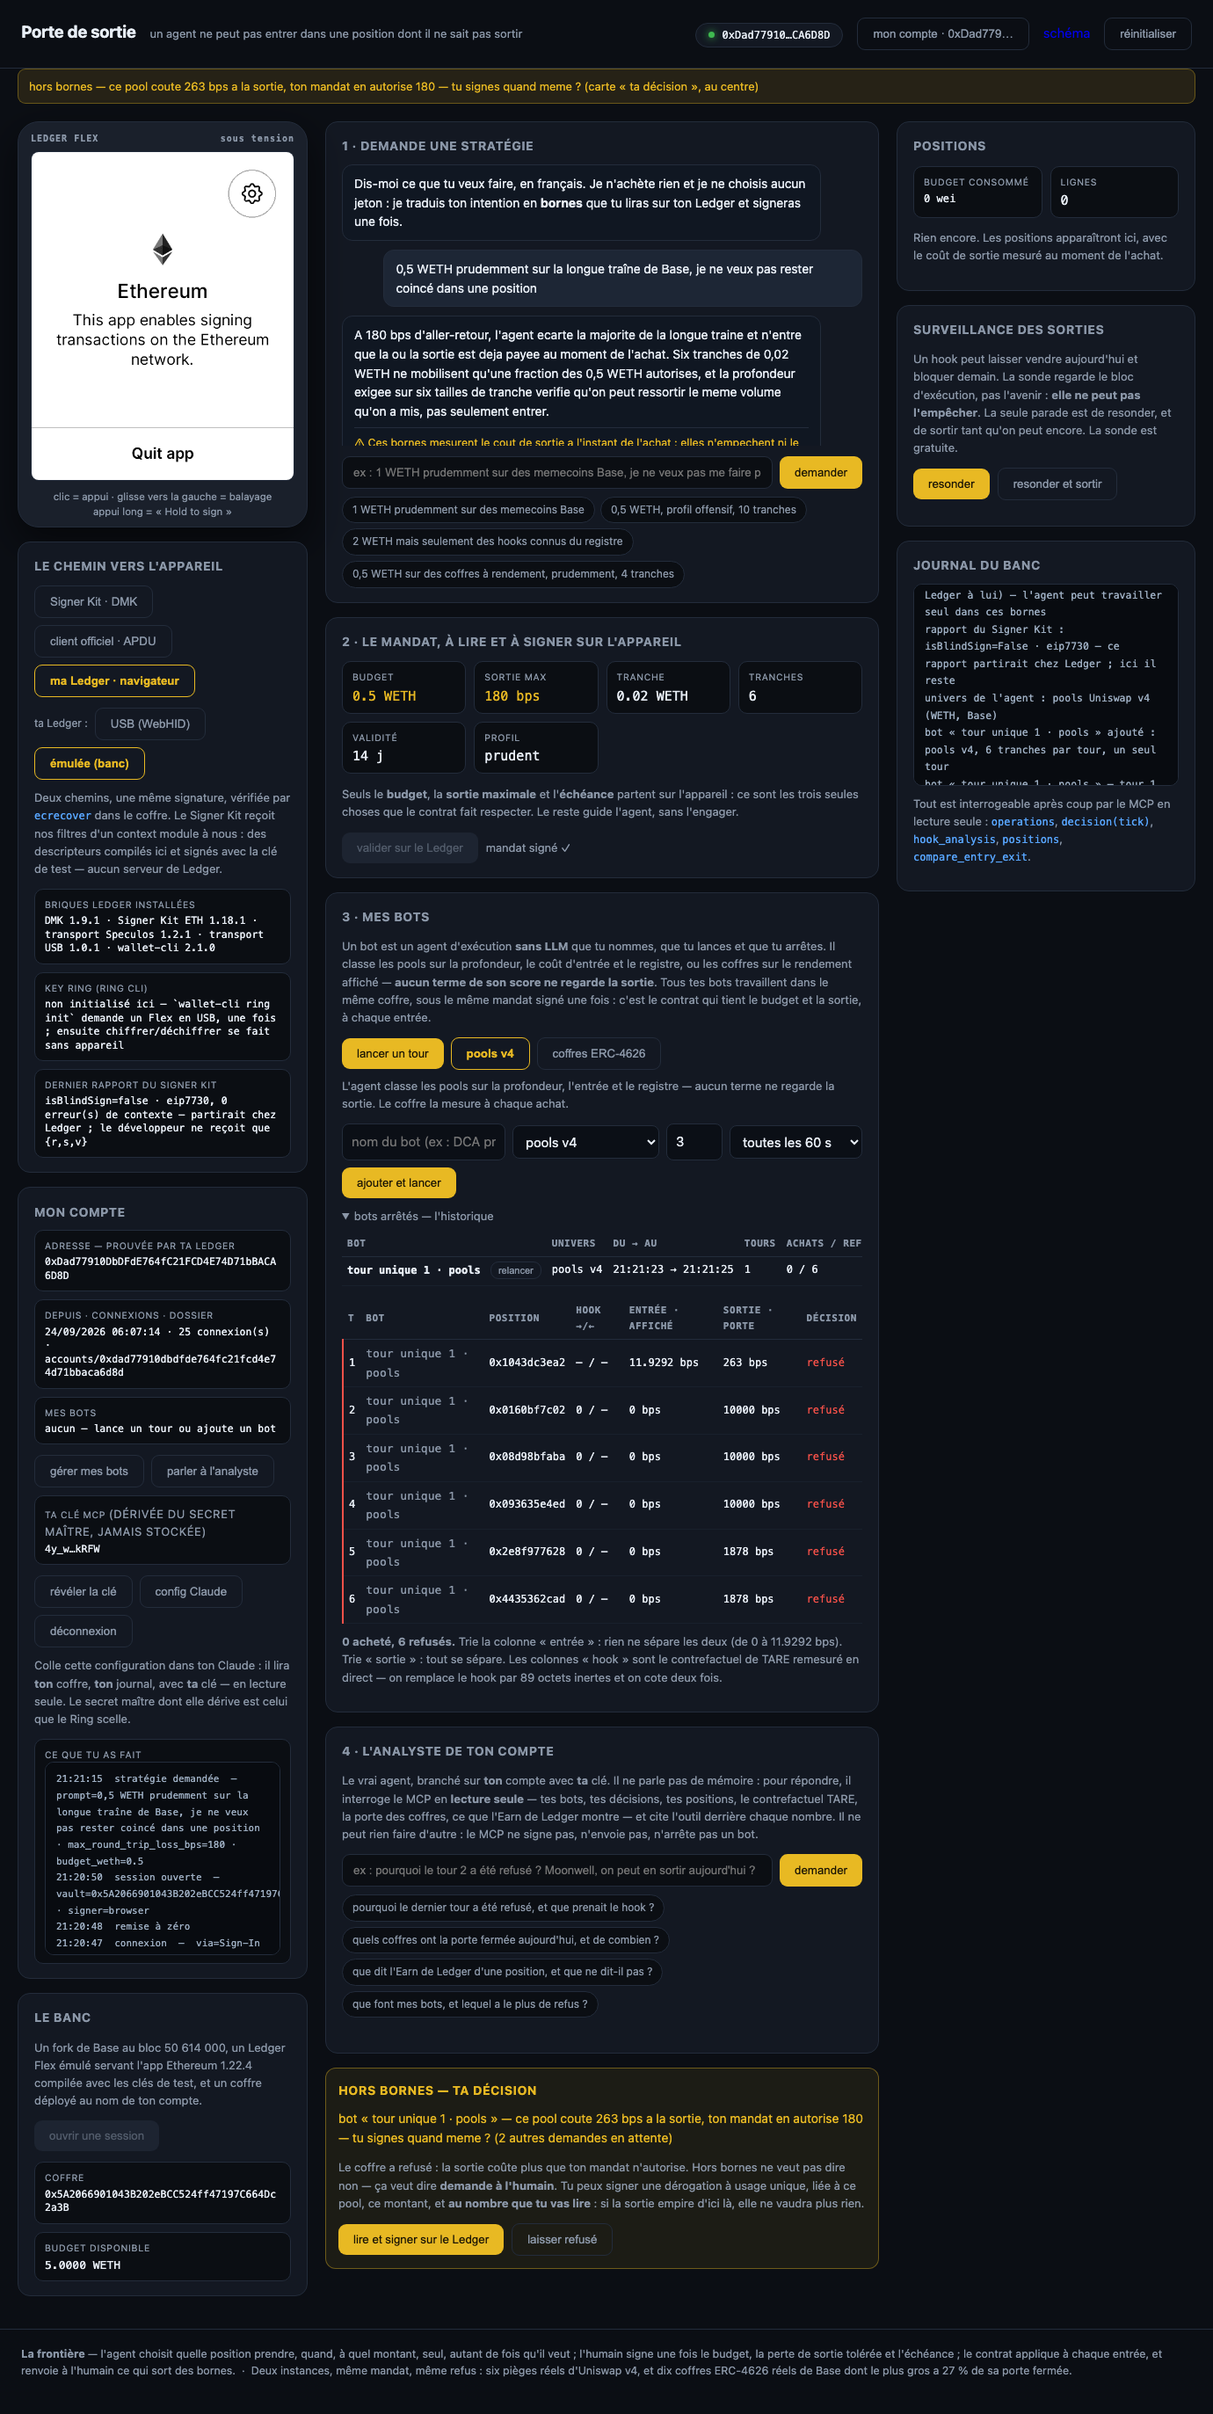
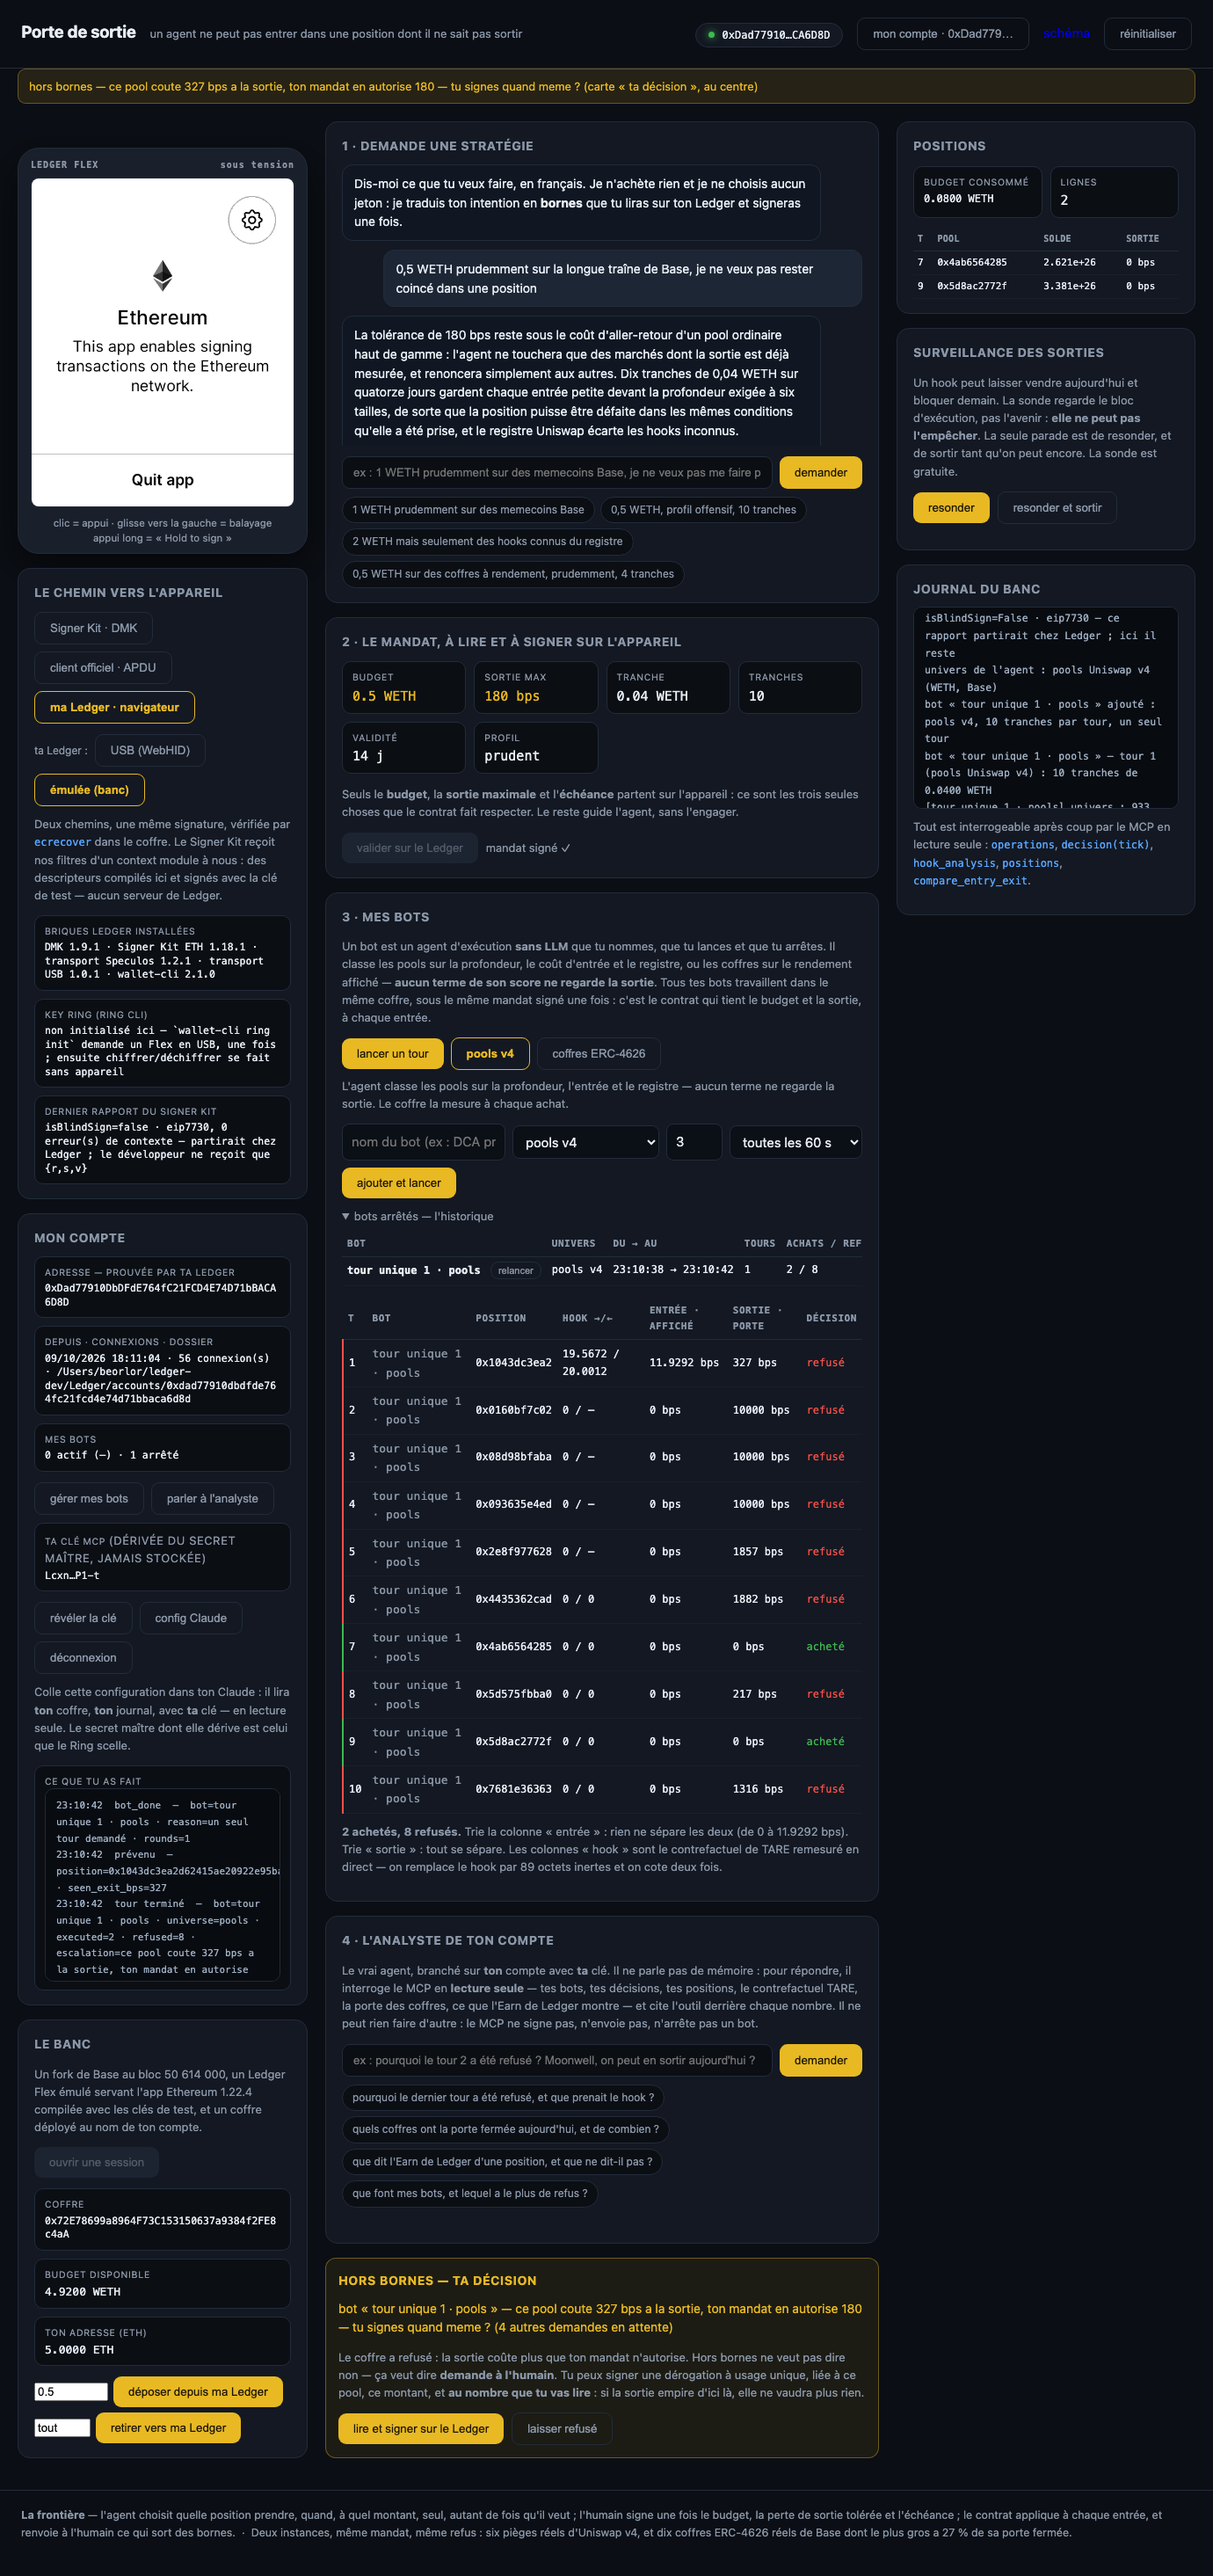
Campagne finale du 12 octobre, tout vert : usage, appareil, page du banc, fonds, Foundry ; le tiroir replie dit mandate signed et clear-signed

diff --git a/front/src/components/demo/Stage.tsx b/front/src/components/demo/Stage.tsx
@@ -113,7 +113,7 @@ export function Stage({ mode }: { mode: StageMode }) {
 
 /** One line per phase, folded: what it has to say about itself. */
 function summary(act: Act, s: BenchState): string {
-  if (act === 'setup') return s.signed ? `mandate ${s.mandate ? Number(s.mandate.mandate.budgetAmount) / 1e18 : s.proposal?.budget_weth} WETH · ${s.mandate?.mandate.maxRoundTripLossBps ?? s.proposal?.max_round_trip_loss_bps} bps` : s.proposal ? 'bounds proposed, to sign' : s.vault ? 'vault open' : 'no vault yet'
+  if (act === 'setup') return s.signed ? `mandate signed · ${s.mandate ? Number(s.mandate.mandate.budgetAmount) / 1e18 : s.proposal?.budget_weth} WETH · ${s.mandate?.mandate.maxRoundTripLossBps ?? s.proposal?.max_round_trip_loss_bps} bps${s.last_report && s.last_report.isBlindSign === false ? ' · clear-signed' : ''}` : s.proposal ? 'bounds proposed, to sign' : s.vault ? 'vault open' : 'no vault yet'
   if (act === 'agents') { const live = s.bots.filter((b) => b.status === 'running').length; const bought = s.journal.filter((r) => r.decision === 'EXECUTED').length; return s.bots.length ? `${s.bots.length} bot${s.bots.length > 1 ? 's' : ''} · ${bought} in · ${s.journal.length - bought} refused${live ? ' · running' : ''}` : 'no agent yet' }
   if (act === 'request') { const w = (s.escalation?.possible ? 1 : 0) + s.escalation_queue.length; return w ? `${w} waiting on the Flex` : `${s.exception_buys.length} signed · ${s.refused_escalations.length} left refused` }
   return `${s.positions.length} positions${s.watch ? ' · probed' : ''}${s.analyses.length ? ' · analyst answered' : ''}`

diff --git a/front/APP.md b/front/APP.md
@@ -94,7 +94,11 @@ accepted reset. It prints its usability remarks at the end (240 s on 11 October,
 node scripts/tests-usage.mjs
 ```
 
-Last run (12 October, on the pages above, with Florent's branch merged), every step passed: sign-in, deposit of 0.5 ETH
+Final campaign of 12 October, late evening, on a quiet host, all green: the usability pass (`tests-usage.mjs`, 39 checks, 323 s),
+the device tests (refusal on the device, two tabs, bench restart), the bench page's own journey (112 s), the funds journey
+(`PARCOURS=fonds`: sign-in 9 s, deposit 8.6 s, withdrawal 8.6 s, 83 s in all), the 38 Foundry tests, and the full journey below.
+
+Full journey (12 October, on the pages above, with Florent's branch merged), every step passed: sign-in, deposit of 0.5 ETH
 signed on the device, bounds (Claude), mandate clear-signed (`isBlindSign=false`), pools bot 2 buys / 8 refusals, exception
 with a queue of 3, « leave refused », re-probe and exit (one position sold at 310 → 600 bps), withdrawal of 0.1 WETH
 authorised on the device, vaults bot (Moonwell at 2 691 bps) stopped from the live table and its exception signed, the
